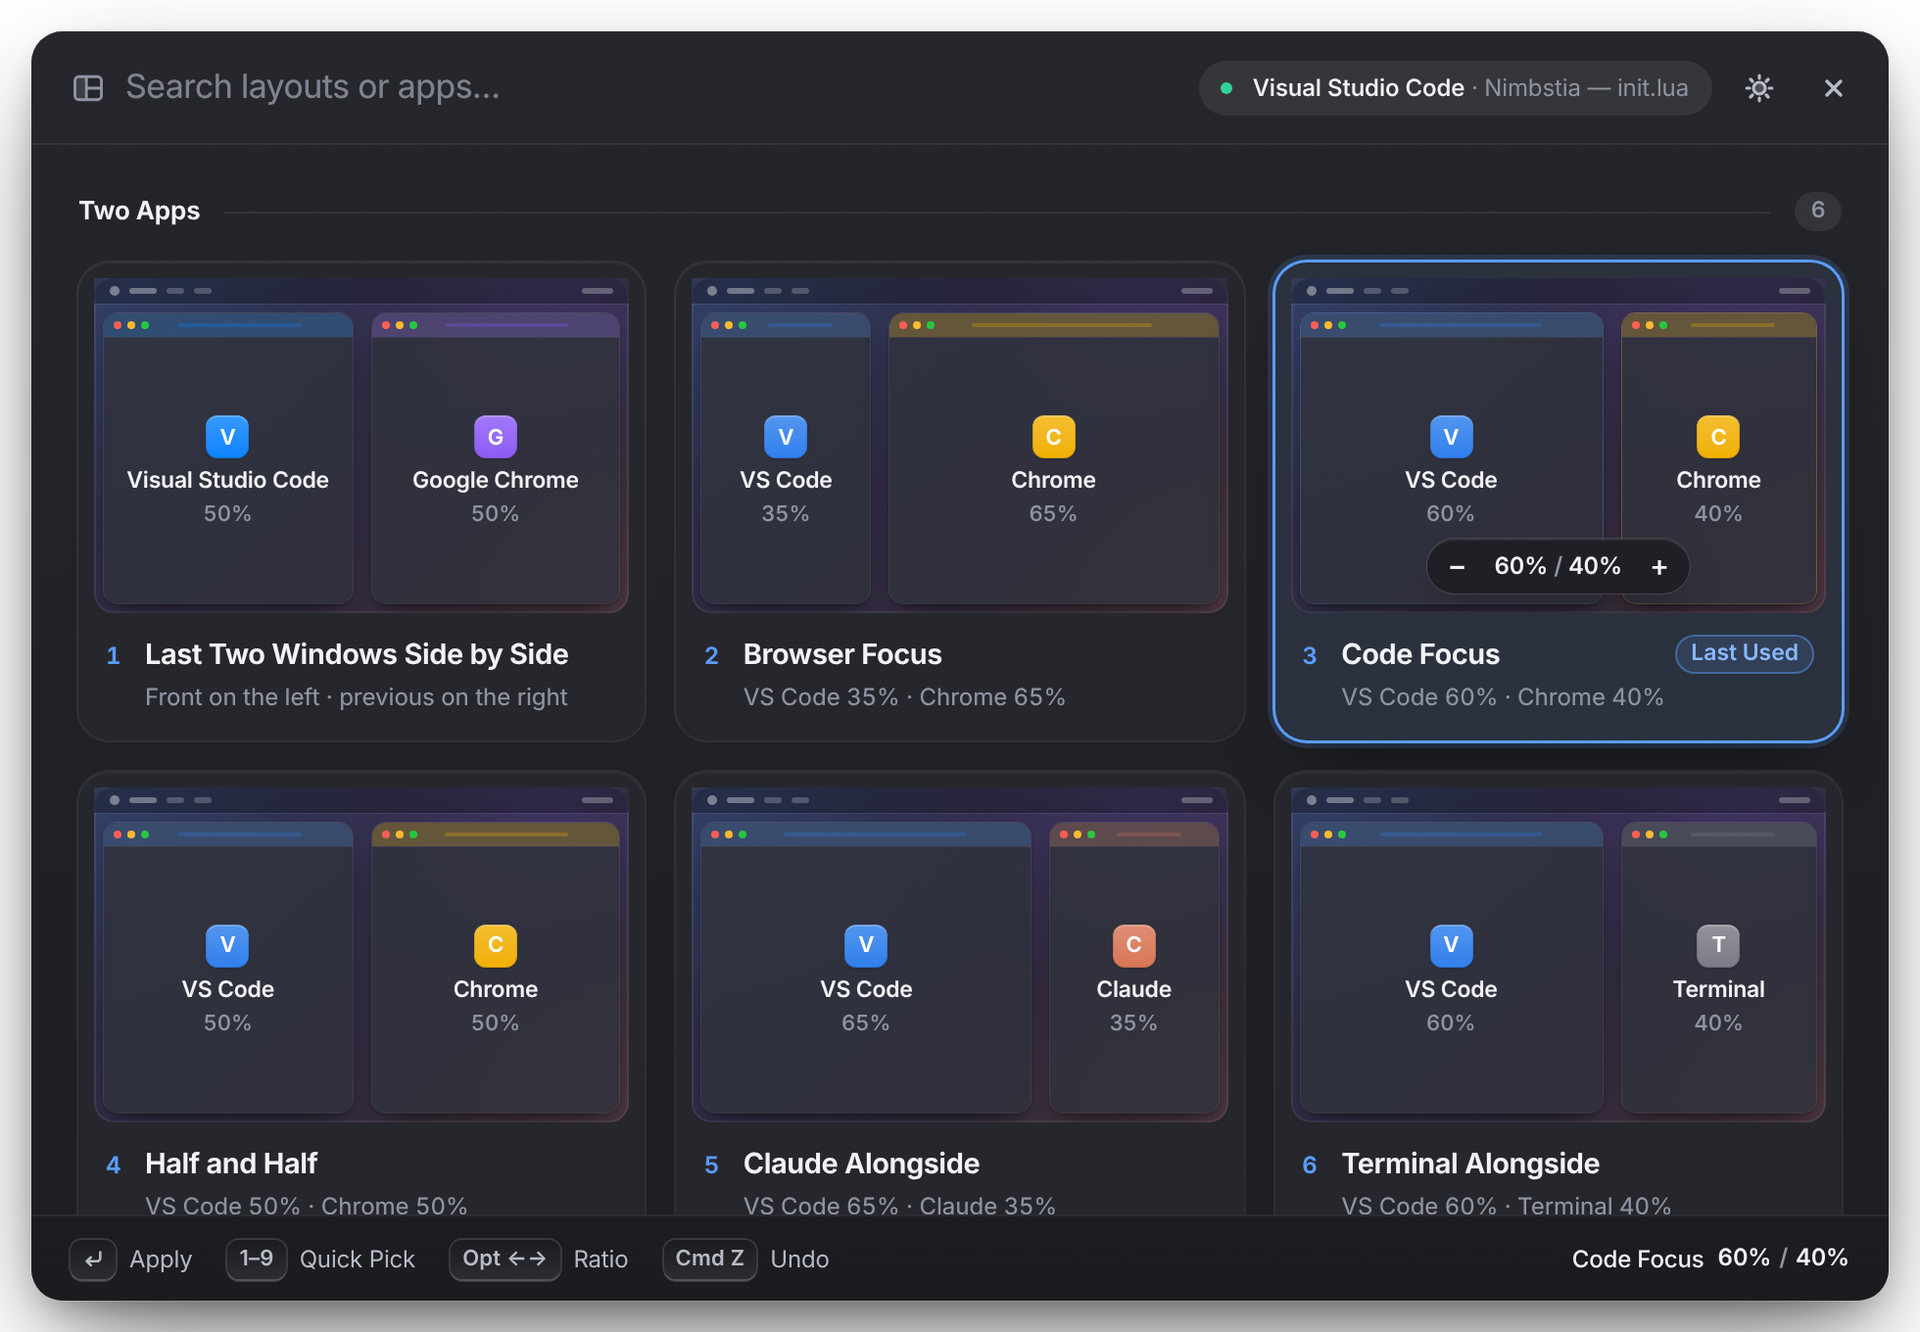
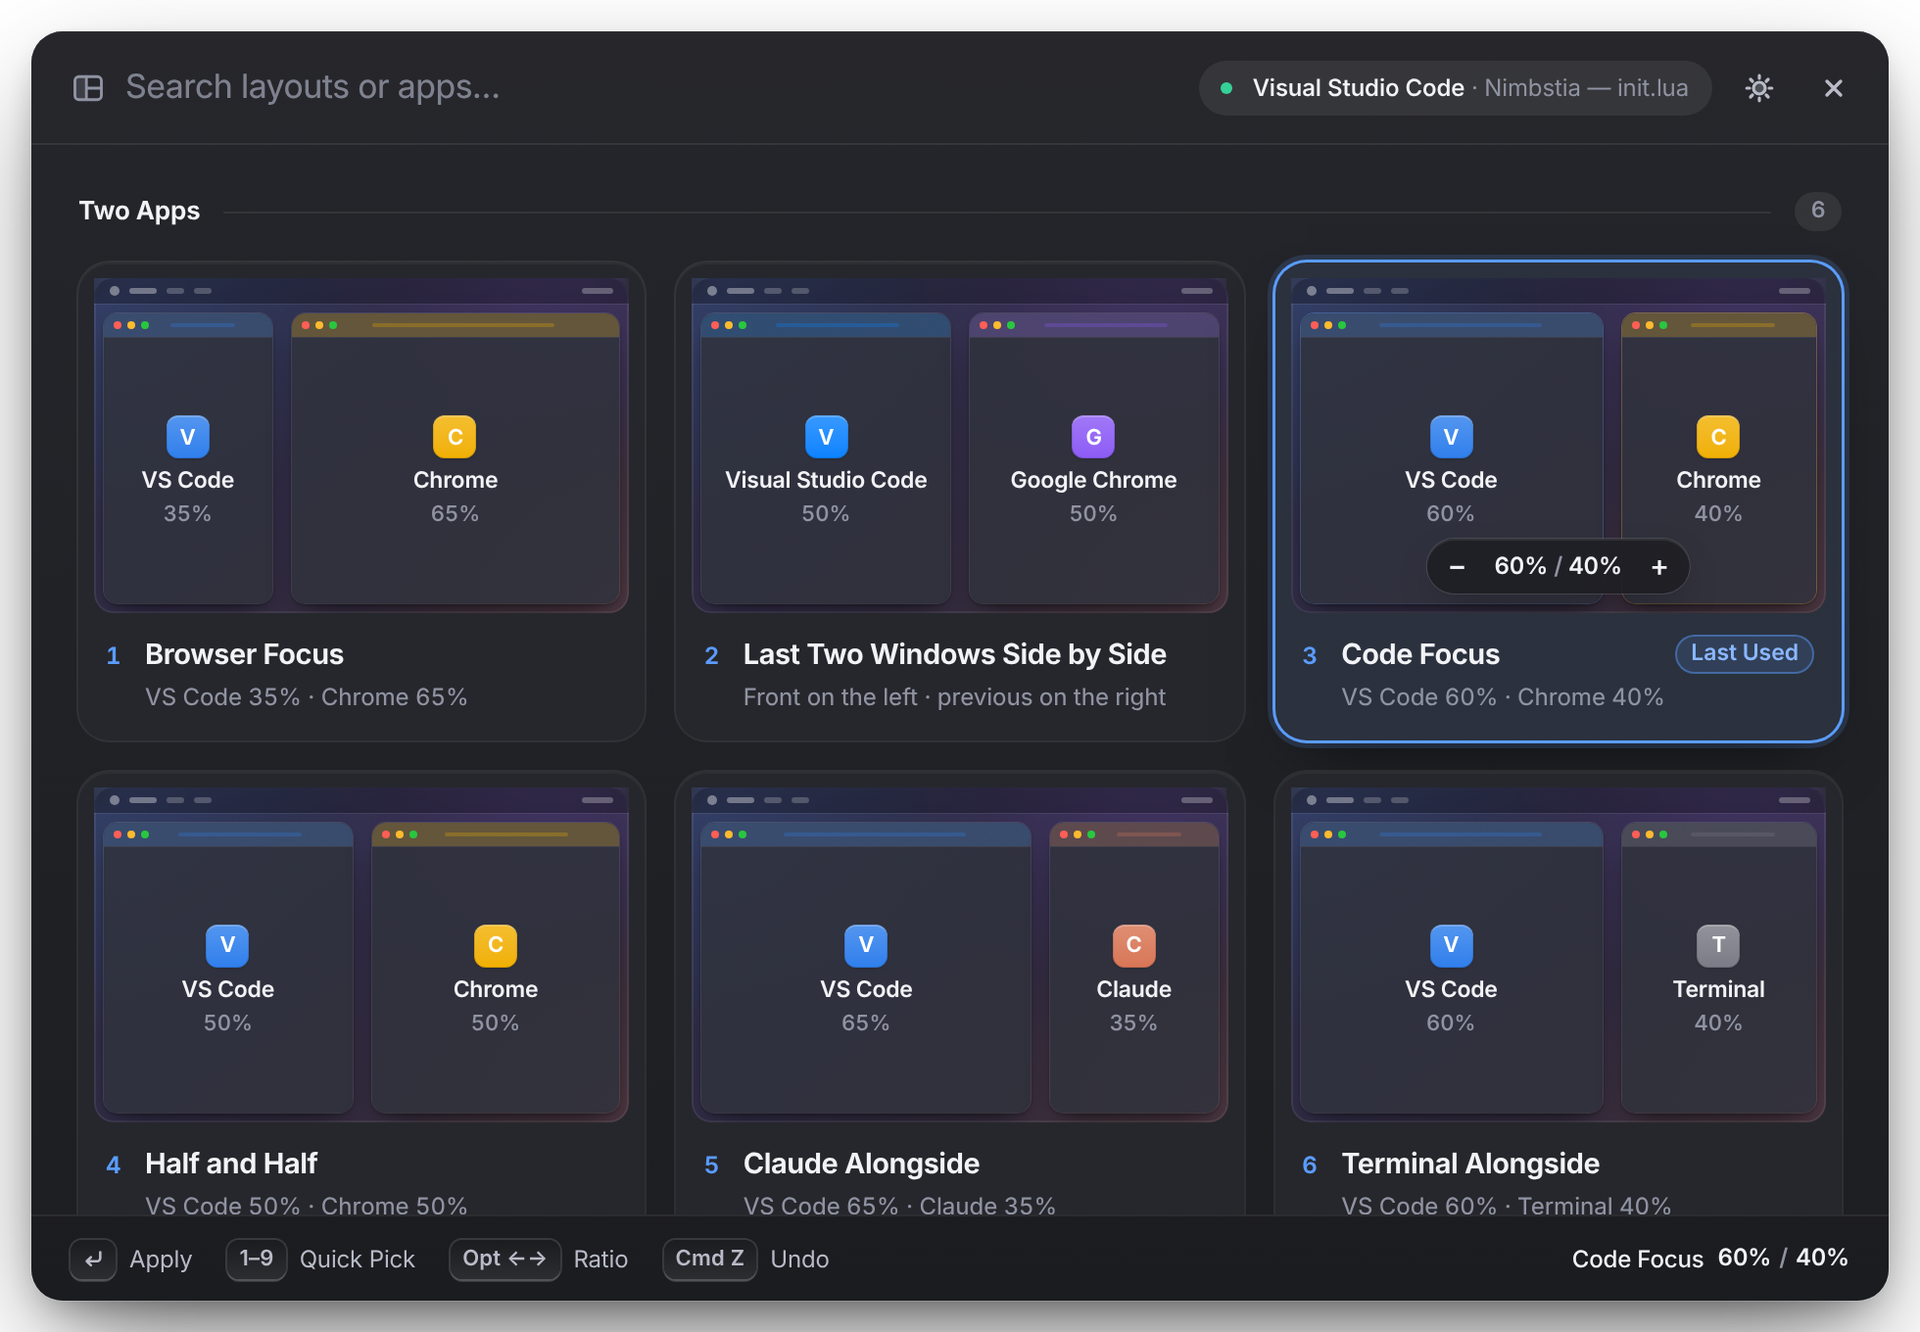
feat(hub): compact top row; everyday Turkish labels; 35/65 layout first
- Connection card: no header row; shield, name and status chip on one
  line, host · latency · last check with the refresh button below.
- Claude card: 60 px rings, one line per limit, today's delta next to
  the reset time; both cards about 175 px tall.
- Labels in everyday Turkish: "Çöpe At" → "Sil", "Yukarı Akış" → "Uzak
  Dal", "Dizin Değişimi" → "Son Değişiklik", "Panelden Açılış" → "Son
  Açılış", "Ana Kopya" → "Ana Depo", "Senin Hareketlerin" → "Bugün
  Yaptıkların", "Sol Daralsın/Genişlesin" → "Solu Daralt/Genişlet",
  "Odakta Pencere Yok" → "Seçili Pencere Yok" (English table updated).
- Panestia: "Tarayıcı Ağırlıklı" (35 / 65) is the first layout (key 1).

Claude-Session: https://claude.ai/code/session_01CjLDHmEYutibSDrkqhEQz5

diff --git a/pulstia.html b/pulstia.html
@@ -316,6 +316,30 @@ button.ss:hover .go{color:var(--text);transform:translate(2px,-2px)}
 .cnone b{font-size:13.5px;font-weight:600}
 .cnone small{font-size:12px;color:var(--faint)}
 .vbtn{margin-top:12px}
+/* compact top row */
+.w.vpn,.w.claude{padding:12px 14px}
+.w.claude .wh{margin-bottom:8px}
+.vtr{gap:8px!important}
+.vic{flex:none;width:26px;height:26px;border-radius:8px;display:grid;place-items:center;color:var(--vc);background:color-mix(in srgb,var(--vc) 14%,transparent)}
+.vic svg{width:14px;height:14px}
+.vtr .vt{flex:1;font-size:15.5px}
+.vmeta{display:flex;align-items:center;gap:6px;margin:8px 0 0;min-width:0}
+.vmeta .vh{flex-wrap:nowrap;overflow:hidden}
+.vmeta .vh span:last-child{overflow:hidden;text-overflow:ellipsis}
+.vmeta .vh{flex:1;margin:0}
+.vmeta .ib{margin-right:-6px}
+.vbtn{height:32px!important;margin-top:10px!important}
+.rgw,.rg{width:60px!important;height:60px!important}
+.rg circle{stroke-width:11}
+.rv svg{width:16px;height:16px}
+.ring2{gap:12px!important}
+.lg b{display:flex;align-items:baseline;gap:6px}
+.lg .td{font-style:normal;font-size:10.5px;font-weight:650;letter-spacing:0;color:var(--accent-ink);background:var(--accent-soft);padding:2px 6px;border-radius:999px;white-space:nowrap}
+.w.claude .slink{margin-top:8px!important}
+.lg div{grid-template-columns:8px minmax(0,1fr) auto!important;column-gap:7px!important}
+.lg b{grid-column:auto!important;font-size:14.5px!important}
+.lg .lrs{display:flex;flex-wrap:wrap;gap:4px 8px;align-items:center}
+.lg .lrs .td{font-size:10.5px;font-weight:650;color:var(--accent-ink);background:var(--accent-soft);padding:1px 6px;border-radius:999px}
 </style>
 </head>
 <body>
@@ -441,9 +465,8 @@ function renderMain() {
         : `<button class="vbtn solid" data-act="vpn" data-v="connect" type="button">${power}Bağlan</button>`;
     const tip = 'Yeniden Kontrol Et' + (dev.checkedAgo ? ' · ' + dev.checkedAgo : '');
     row1.push(`<section class="w vpn ${tone}">
-      ${wh(ICONS.shield, 'Bağlantı', `<button class="ib" data-act="check" type="button" data-tip="${esc(tip)}" aria-label="Yeniden Kontrol Et">${ICONS.refresh}</button>`)}
-      <div class="vtr"><div class="vt">${esc(dev.title || 'VPN Bağlantısı')}</div><span class="vchip"><i></i>${esc(label)}</span></div>
-      <div class="vh">${dev.host ? `<span class="mono">${esc(dev.host)}</span>` : ''}${tone === 'ok' && ms != null ? `<span>${ms} ms</span>` : ''}${dev.checkedAgo ? `<span>${esc(dev.checkedAgo)}</span>` : ''}</div>
+      <div class="vtr"><span class="vic">${ICONS.shield}</span><div class="vt">${esc(dev.title || 'VPN Bağlantısı')}</div><span class="vchip"><i></i>${esc(label)}</span></div>
+      <div class="vmeta"><div class="vh">${dev.host ? `<span class="mono">${esc(dev.host)}</span>` : ''}${tone === 'ok' && ms != null ? `<span>${ms} ms</span>` : ''}${dev.checkedAgo ? `<span>${esc(dev.checkedAgo)}</span>` : ''}</div><button class="ib sm" data-act="check" type="button" data-tip="${esc(tip)}" aria-label="Yeniden Kontrol Et">${ICONS.refresh}</button></div>
       <span style="flex:1"></span>${action}</section>`);
   }
   if (d.claude) {
@@ -463,8 +486,7 @@ function renderMain() {
     row1.push(`<section class="w claude">
       ${wh(W_ICON.spark, 'Claude', c.plan ? `<span class="plan">${esc(c.plan)}</span>` : '')}
       ${lim ? `<div class="ring2"><div class="rgw">${rings}<div class="rv">${W_ICON.spark}</div></div>
-        <div class="lg"><div><i class="c1"></i><span>${esc(lim ? short(lim) : 'Kullanım')}</span><b data-roll="c1">${fmtP(p)}</b></div>${p2 != null ? `<div><i class="c2"></i><span>${esc(short(lims[1]))}</span><b data-roll="c2">${fmtP(p2)}</b></div>` : ''}${lim.resets ? `<em class="lrs">↻ ${esc(lim.resets)}</em>` : ''}</div></div>` : `<div class="cnone"><b>Kullanım verisi yok</b><small>Claude Code açıkken güncellenir</small></div>`}
-      ${lim && typeof lim.today === 'number' ? `<div class="today">Bugün +%${lim.today}</div>` : ''}
+        <div class="lg"><div><i class="c1"></i><span>${esc(lim ? short(lim) : 'Kullanım')}</span><b data-roll="c1">${fmtP(p)}</b></div>${p2 != null ? `<div><i class="c2"></i><span>${esc(short(lims[1]))}</span><b data-roll="c2">${fmtP(p2)}</b></div>` : ''}${lim.resets || typeof lim.today === 'number' ? `<em class="lrs">${lim.resets ? `<span>↻ ${esc(lim.resets)}</span>` : ''}${typeof lim.today === 'number' ? `<span class="td">Bugün +%${lim.today}</span>` : ''}</em>` : ''}</div></div>` : `<div class="cnone"><b>Kullanım verisi yok</b><small>Claude Code açıkken güncellenir</small></div>`}
       ${sess.length ? `<button class="slink" data-act="sessions" type="button"><span class="sdot${busy ? ' b' : ''}"></span><span>${sess.length} oturum</span>${busy ? `<small>${busy} aktif</small>` : ''}<span class="sp"></span>${CHEV}</button>` : ''}
       </section>`);
   }

diff --git a/scripts/preview/demo.js b/scripts/preview/demo.js
@@ -41,7 +41,7 @@ exports.POP = { health: 'ok', status: { text: 'Her Şey Yolunda', tone: 'ok' },
   dev: { name: 'DEV', title: 'Office VPN', host: '10.0.0.10', status: 'Bağlı · 18 ms', checkedAgo: 'az önce', ms: 18 },
   vpn: { connected: true }, github: exports.GH, forti: false,
   ports: [{ port: 3000, cmd: 'node', folder: 'Nimbstia-site' }, { port: 5173, cmd: 'node', folder: 'design-system' }, { port: 8000, cmd: 'Python', folder: 'api-server' }],
-  claude: { plan: 'Max', updatedAgo: '2 dk önce', limits: [{ label: 'Haftalık Limit', percent: 33, resets: 'Cumartesi 12:00' }, { label: 'Oturum Limiti', percent: 71, resets: '14:20' }],
+  claude: { plan: 'Max', updatedAgo: '2 dk önce', limits: [{ label: 'Haftalık Limit', percent: 33, resets: 'Cumartesi 12:00', today: 7 }, { label: 'Oturum Limiti', percent: 71, resets: '14:20' }],
     sessions: [{ name: 'Nimbstia docs', busy: true, url: 'https://claude.ai' }, { name: 'api-server', busy: true, url: 'https://claude.ai' }, { name: 'website', busy: false, url: 'https://claude.ai' }] },
   tools: [{ id: 'clip', name: 'Pastia', what: 'Pano', keys: '⌃V' }, { id: 'shot', name: 'Clipstia', what: 'Ekran Görüntüsü', keys: '⌃.' }, { id: 'layout', name: 'Panestia', what: 'Düzen', keys: '⌃Space' }, { id: 'repo', name: 'Repostia', what: 'Projeler', keys: '⌃⇧P' }, { id: 'text', name: 'Lexstia', what: 'Metin Oku', keys: '⌃⇧O' }],
   toggles: { awake: true, mic: false, meetings: false, appearance: false },
@@ -55,7 +55,7 @@ const cols = (a, b, r) => [{ app: a, rect: [0, 0, r, 1] }, { app: b, rect: [r, 0
 const ms = (a, b, c, r) => [{ app: a, rect: [0, 0, r, 1] }, { app: b, rect: [r, 0, 1 - r, .5] }, { app: c, rect: [r, .5, 1 - r, .5] }];
 const L = (id, group, name, cells, ratio, extra) => Object.assign({ id, group, name, cells, adjustable: ratio != null, ratio, custom: false, hideOthers: false }, extra);
 exports.LAYOUTS = { apps, aspect: 1.6, last: 'code', canUndo: true, win: { app: 'Visual Studio Code', title: 'Nimbstia — init.lua', icon: false },
-  layouts: [L('pair', 'İki Uygulama', 'Son İki Pencere Yan Yana', cols('win1', 'win2', .5), .5), L('browser', 'İki Uygulama', 'Tarayıcı Ağırlıklı', cols('code', 'chrome', .35), .35), L('code', 'İki Uygulama', 'Kod Ağırlıklı', cols('code', 'chrome', .6), .6), L('half', 'İki Uygulama', 'Yarı Yarıya', cols('code', 'chrome', .5), .5), L('claude', 'İki Uygulama', 'Claude Yanında', cols('code', 'claude', .65), .65), L('terminal', 'İki Uygulama', 'Terminal Yanında', cols('code', 'terminal', .6), .6),
+  layouts: [L('browser', 'İki Uygulama', 'Tarayıcı Ağırlıklı', cols('code', 'chrome', .35), .35), L('pair', 'İki Uygulama', 'Son İki Pencere Yan Yana', cols('win1', 'win2', .5), .5), L('code', 'İki Uygulama', 'Kod Ağırlıklı', cols('code', 'chrome', .6), .6), L('half', 'İki Uygulama', 'Yarı Yarıya', cols('code', 'chrome', .5), .5), L('claude', 'İki Uygulama', 'Claude Yanında', cols('code', 'claude', .65), .65), L('terminal', 'İki Uygulama', 'Terminal Yanında', cols('code', 'terminal', .6), .6),
     L('dev', 'Üç Uygulama', 'Geliştirme', ms('code', 'chrome', 'terminal', .5), .5), L('ai', 'Üç Uygulama', 'Kod · Tarayıcı · Claude', [{ app: 'code', rect: [0, 0, .42, 1] }, { app: 'chrome', rect: [.42, 0, .32, 1] }, { app: 'claude', rect: [.74, 0, .26, 1] }], .42), L('comms', 'Üç Uygulama', 'İletişim', ms('outlook', 'teams', 'whatsapp', .5), .5),
     L('focusCode', 'Odak', 'Odak: VS Code', [{ app: 'code', rect: [.08, .04, .84, .92] }], null, { hideOthers: true }), L('focusChrome', 'Odak', 'Odak: Chrome', [{ app: 'chrome', rect: [.08, .04, .84, .92] }], null, { hideOthers: true })],
   actions: [['left', 'Sol Yarı', [0, 0, .5, 1]], ['right', 'Sağ Yarı', [.5, 0, .5, 1]], ['top', 'Üst Yarı', [0, 0, 1, .5]], ['bottom', 'Alt Yarı', [0, .5, 1, .5]], ['max', 'Tam Ekran', [0, 0, 1, 1]], ['center', 'Ortala', [.15, .08, .7, .84]], ['l3', 'Sol Üçte Bir', [0, 0, 1 / 3, 1]], ['c3', 'Orta Üçte Bir', [1 / 3, 0, 1 / 3, 1]], ['r3', 'Sağ Üçte Bir', [2 / 3, 0, 1 / 3, 1]], ['l23', 'Sol Üçte İki', [0, 0, 2 / 3, 1]], ['r23', 'Sağ Üçte İki', [1 / 3, 0, 2 / 3, 1]], ['tl', 'Sol Üst', [0, 0, .5, .5]], ['tr', 'Sağ Üst', [.5, 0, .5, .5]], ['bl', 'Sol Alt', [0, .5, .5, .5]], ['br', 'Sağ Alt', [.5, .5, .5, .5]]].map(([id, name, rect]) => ({ id, name, rect, nextScreen: false })) };

diff --git a/projects.html b/projects.html
@@ -360,8 +360,8 @@ const branchOf = p => p.branch || (p.sha ? `${p.sha} (detached)` : '–');
 const KINDS = [
   { key: 'all',   label: 'Tümü',                   icon: 'all',   test: () => true },
   { key: 'dirty', label: 'Değişiklik Var',          icon: 'dirty', test: p => p.dirty > 0 },
-  { key: 'main',  label: 'Ana Kopyalar',            icon: 'main',  test: p => !isCopy(p) },
-  { key: 'copy',  label: 'PR/Çalışma Kopyaları',    icon: 'copy',  test: p => isCopy(p) },
+  { key: 'main',  label: 'Ana Depolar',            icon: 'main',  test: p => !isCopy(p) },
+  { key: 'copy',  label: 'Çalışma Kopyaları',    icon: 'copy',  test: p => isCopy(p) },
 ];
 const SORTS = [{ key: 'recent', label: 'Son Kullanılan' }, { key: 'name', label: 'Ad' }];
 const isDefault = () => kind === 'all';
@@ -477,7 +477,7 @@ function statusText(p) {
   return [`${num(p.dirty)} Değişiklik`, 'warn'];
 }
 function syncText(p) {
-  if (p.ahead == null) return p.branch ? 'Yukarı Akış Yok' : 'Detached HEAD';
+  if (p.ahead == null) return p.branch ? 'Uzak Dal Yok' : 'Detached HEAD';
   if (!p.ahead && !p.behind) return 'Güncel';
   return [p.ahead ? `${num(p.ahead)} ileride` : '', p.behind ? `${num(p.behind)} geride` : ''].filter(Boolean).join(' · ');
 }
@@ -488,7 +488,7 @@ function renderPreview() {
   selPath = p.path;
   const acts = btn('vscode', 'code', 'VS Code\'da Aç', '↩', 'primary') + btn('terminal', 'term', 'Terminal', '') + btn('github', 'gh', 'GitHub Desktop', '') + btn('reveal', 'folder', 'Finder', '') +
     '<span class="sp"></span>' + btn('pin', p.pinned ? 'pin' : 'pinO', p.pinned ? 'Sabitli' : 'Sabitle', '');
-  const tags = [`<span class="tag ${isCopy(p) ? 'copy' : 'main'}">${isCopy(p) ? (p.worktree ? 'Çalışma Kopyası · Worktree' : 'Çalışma Kopyası · Klon') : 'Ana Kopya'}</span>`];
+  const tags = [`<span class="tag ${isCopy(p) ? 'copy' : 'main'}">${isCopy(p) ? (p.worktree ? 'Çalışma Kopyası · Worktree' : 'Çalışma Kopyası · Klon') : 'Ana Depo'}</span>`];
   if (p.dirty > 0) tags.push(`<span class="tag warn">${num(p.dirty)} Değişiklik</span>`);
   if (isStale(p)) tags.push('<span class="tag stale" title="Yalnız bilgi: 7+ gündür hareketsiz, temiz bir çalışma kopyası. Hiçbir şey silinmez.">Temizlenebilir</span>');
 
@@ -500,10 +500,10 @@ function renderPreview() {
 
   const [st, stCls] = statusText(p);
   const meta = [
-    ['Dal', branchOf(p), ''], ['Durum', st, stCls], ['Yukarı Akış', syncText(p), ''],
+    ['Dal', branchOf(p), ''], ['Durum', st, stCls], ['Uzak Dal', syncText(p), ''],
     ['Son Commit', fullTime(p.ct), ''],
-    ['Dizin Değişimi', fullTime(p.mtime), ''],
-    ['Panelden Açılış', p.opened ? rel(p.opened) : 'Hiç Açılmadı', ''],
+    ['Son Değişiklik', fullTime(p.mtime), ''],
+    ['Son Açılış', p.opened ? rel(p.opened) : 'Hiç Açılmadı', ''],
   ];
   pvEl.innerHTML = `<div class="pv-actions">${acts}</div>` +
     `<div class="pv-body"><div class="pv-name">${esc(p.name)}</div><div class="tags">${tags.join('')}</div>` +
@@ -646,7 +646,7 @@ function renderGitHub() {
     : `<span class="gs ${cls}"><b>${v}</b>${label}</span>`;
   const btn = (key, label, count) => count == null ? '' :
     `<button class="gb${ghOpen === key ? ' on' : ''}${key === 'review' && count > 0 ? ' hot' : ''}" data-gh="${key}" type="button">${label}<b>${n(count)}</b>${CHEV}</button>`;
-  let html = `<span class="gl"><span class="eyebrow">Bugün${gh.org ? ' · ' + esc(gh.org) : ''}</span><b>Senin Hareketlerin</b></span>` +
+  let html = `<span class="gl"><span class="eyebrow">Bugün${gh.org ? ' · ' + esc(gh.org) : ''}</span><b>Bugün Yaptıkların</b></span>` +
     stat('pr', gh.prsToday == null ? '–' : n(gh.prsToday), 'Açılan PR', gh.opened ? 'opened' : null) +
     stat('cm', n(gh.commits), 'Commit', 'commits') +
     stat('add', '+' + n(gh.added), 'Eklenen Satır') + stat('del', '−' + n(gh.deleted), 'Silinen Satır') +

diff --git a/layouts.html b/layouts.html
@@ -243,7 +243,7 @@ function layoutCard(L, i) {
   if (L.hideOthers) tags.push('Diğerlerini Gizler');
   if (L.custom) tags.push('Özel Oran');
   const last = data.last === L.id ? '<span class="last">Son Kullanılan</span>' : '';
-  const adj = L.adjustable ? `<div class="adj"><div data-d="-1" title="Sol Daralsın">−</div><span>${pct(L.ratio)}<u>/</u>${pct(1 - L.ratio)}</span><div data-d="1" title="Sol Genişlesin">+</div></div>` : '';
+  const adj = L.adjustable ? `<div class="adj"><div data-d="-1" title="Solu Daralt">−</div><span>${pct(L.ratio)}<u>/</u>${pct(1 - L.ratio)}</span><div data-d="1" title="Solu Genişlet">+</div></div>` : '';
   return `<div class="card${last ? ' has-last' : ''}" data-i="${i}" style="--d:${Math.min(i * 20, 200)}ms">${last}${screenHTML(cells, adj)}
     <div class="meta"><span class="idx${i < 9 ? '' : ' off'}">${i + 1}</span><div class="name">${hl(L.name)}</div><div class="desc">${esc(descOf(L))}${tags.length ? ` · <span class="tag">${tags.join(' · ')}</span>` : ''}</div></div></div>`;
 }
@@ -290,14 +290,14 @@ function render(keepId) {
   }
   if (open) html += '</div>';
   if (actions.length) {
-    html += `<h2 class="eyebrow">Bu Pencere<em>${esc(data.win ? data.win.app : 'Odakta Pencere Yok')}</em><small>${actions.length}</small></h2><div class="grid small">`;
+    html += `<h2 class="eyebrow">Bu Pencere<em>${esc(data.win ? data.win.app : 'Seçili Pencere Yok')}</em><small>${actions.length}</small></h2><div class="grid small">`;
     for (const A of actions) html += actionCard(A, idx++);
     html += '</div>';
   }
   if (!view.length) html = `<div class="empty">${EMPTY_ICON}<b>Eşleşen Düzen Yok</b><span>Farklı bir kelime dene ya da Esc ile aramayı temizle.</span></div>`;
   contentEl.innerHTML = html;
   targetEl.classList.toggle('none', !data.win);
-  targetEl.innerHTML = data.win ? `${data.win.icon ? `<img src="${data.win.icon}">` : '<i class="live"></i>'}<span><b>${esc(data.win.app)}</b>${data.win.title ? ' · ' + esc(data.win.title) : ''}</span>` : '<i class="live"></i><span>Odakta Pencere Yok</span>';
+  targetEl.innerHTML = data.win ? `${data.win.icon ? `<img src="${data.win.icon}">` : '<i class="live"></i>'}<span><b>${esc(data.win.app)}</b>${data.win.title ? ' · ' + esc(data.win.title) : ''}</span>` : '<i class="live"></i><span>Seçili Pencere Yok</span>';
   targetEl.style.display = 'flex';
   mark(false);
 }

diff --git a/i18n.js b/i18n.js
@@ -128,7 +128,7 @@
     'Pil': 'Battery', 'Şarj': 'Charging', 'Şarjda': 'Charging', 'Bellek': 'Memory', 'Boş Disk': 'Free Disk',
     'Pil Ayarları': 'Battery Settings', 'Depolama Ayarları': 'Storage Settings',
     'Neyin ne kadar kullandığını gör': 'See what uses how much', 'Uygulamalar okunuyor…': 'Reading apps…',
-    'Okunamadı.': 'Could not read.', 'Bellek Kullanımı': 'Memory Usage', 'Diğer': 'Other', 'Kullanım verisi yok': 'No usage data yet', 'Claude Code açıkken güncellenir': 'Updates while Claude Code runs',
+    'Okunamadı.': 'Could not read.', 'Bellek Kullanımı': 'Memory Usage', 'Diğer': 'Other', 'Uzak Dal': 'Remote Branch', 'Uzak Dal Yok': 'No Remote Branch', 'Son Değişiklik': 'Last Change', 'Son Açılış': 'Last Opened', 'Ana Depo': 'Main Repo', 'Ana Depolar': 'Main Repos', 'Çalışma Kopyaları': 'Work Copies', 'Bugün Yaptıkların': 'Your Day', 'Solu Daralt': 'Narrow Left Side', 'Solu Genişlet': 'Widen Left Side', 'Seçili Pencere Yok': 'No Focused Window', 'Kullanım verisi yok': 'No usage data yet', 'Claude Code açıkken güncellenir': 'Updates while Claude Code runs',
     "Etkinlik İzleyicisi'nde Aç": 'Open in Activity Monitor', 'Çalışıyor': 'Running', 'Boşta': 'Idle',
     "claude.ai'de aç": 'Open on claude.ai', 'Claude Oturumları': 'Claude Sessions', 'Açık oturum yok.': 'No open sessions.',
     "Bir oturuma tıklayınca claude.ai'de açılır.": 'Click a session to open it on claude.ai.',

diff --git a/clipboard.html b/clipboard.html
@@ -571,7 +571,7 @@ function renderPreview() {
   if (c === 'image' || c === 'shot') acts += btn('reveal', 'open', 'Finder', '⌘O');
   acts += '<span class="sp"></span>';
   if (c !== 'shot') acts += btn('pin', it.pinned ? 'pin' : 'pinO', it.pinned ? 'Sabitli' : 'Sabitle', '');
-  acts += btn('delete', 'trash', c === 'shot' ? 'Çöpe At' : 'Sil', '⌘⌫', 'danger');
+  acts += btn('delete', 'trash', 'Sil', '⌘⌫', 'danger');
 
   if (c === 'image' || c === 'shot') {
     const th = thumbs[it.id];
